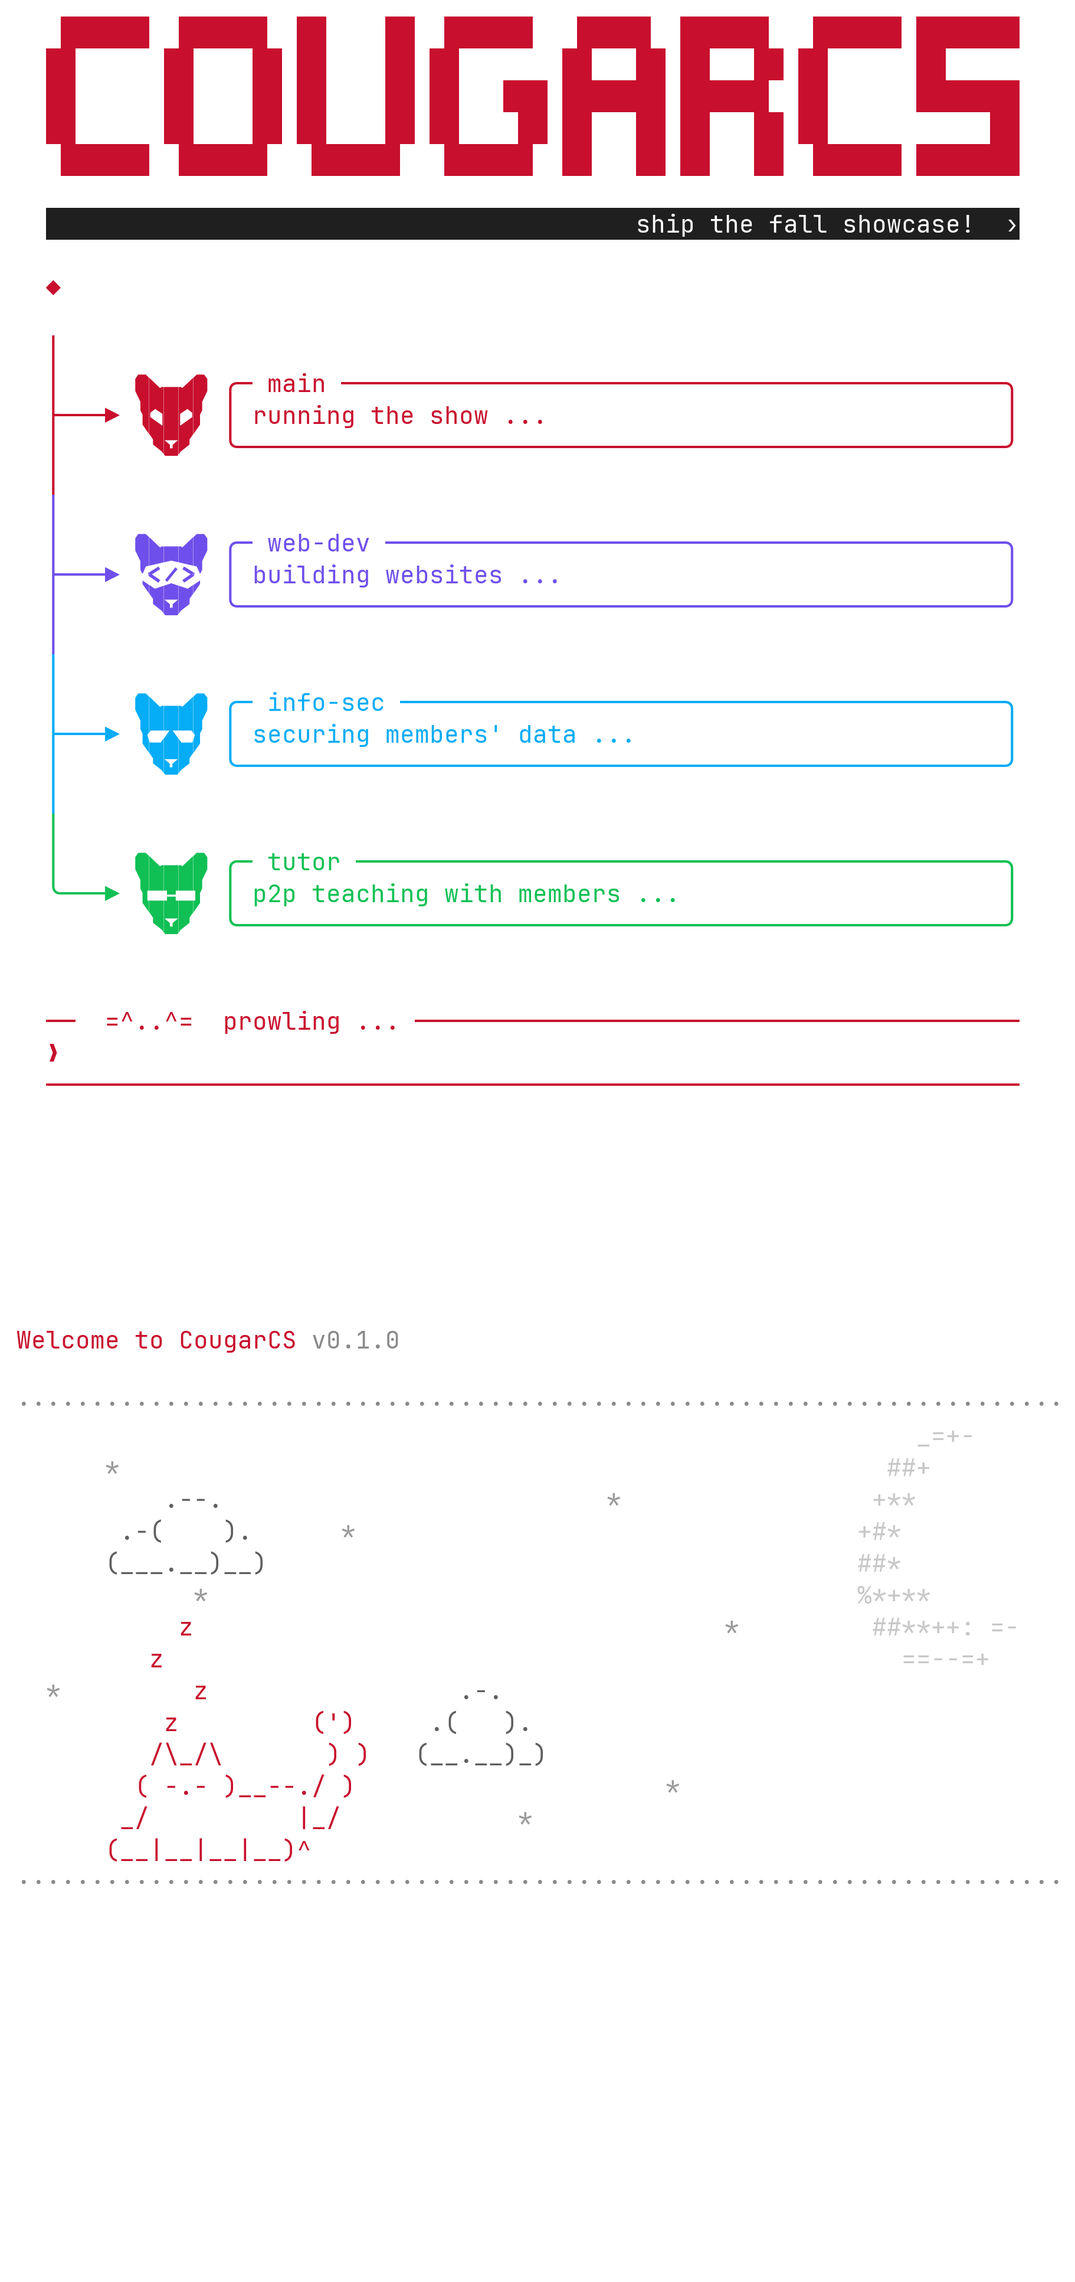
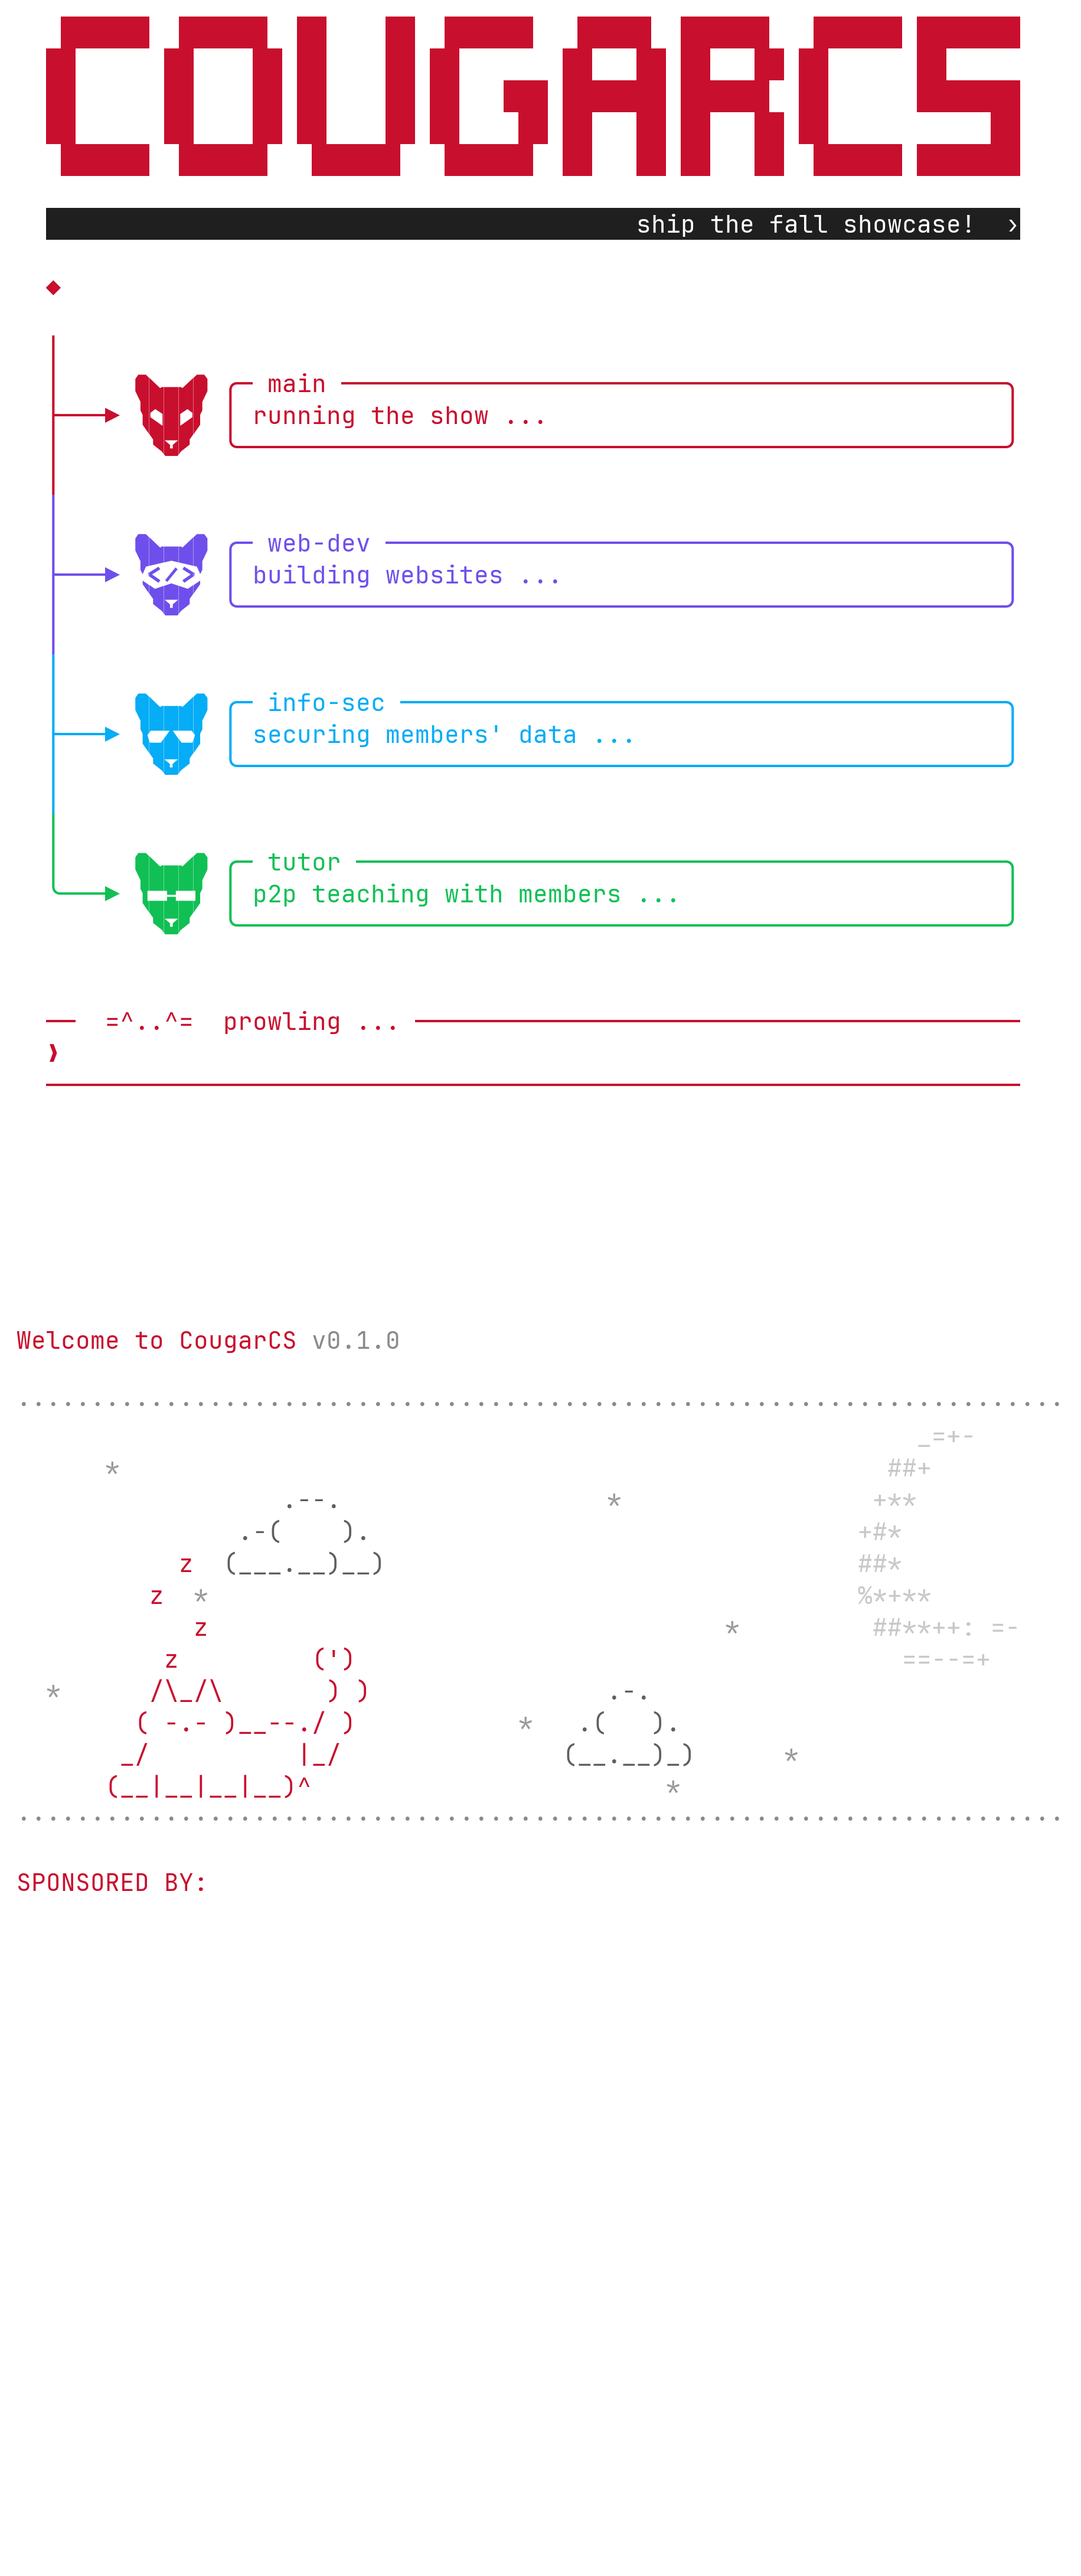
feat: draped cougar sprite + wired sponsor grid, condensed night scene
- Add COUGAR_DRAPED_ASCII (draft): draped/lounging pose, curved dangling legs,
  tail trailing off the rear
- Sponsor grid rebuilt as an ASCII canvas: rounded boxes with circuit-style
  wire traces off every side ending in ○ pads; boxes one row taller
- Sponsor label: plain red left-aligned "SPONSORED BY:" with a gap before boxes
- Night scene condensed by two rows; both clouds shifted right

Claude-Session: https://claude.ai/code/session_01PiPW8ebdnj5r2kgCBUtyCi

diff --git a/src/scene.ts b/src/scene.ts
@@ -184,38 +184,73 @@ export function buildScene(r: CliRenderer, state: SceneState) {
 
   // ---- sponsor grid, below both shirt designs ----
   const WHITE = "#ffffff"
-  const GRID_GAP = 1 // gap between boxes in a row, and between the two rows
-  const CELL_H = 4
-  function gridRow(count: number) {
-    const row = new BoxRenderable(r, { flexDirection: "row", width: contentWidth, gap: GRID_GAP })
-    for (let i = 0; i < count; i++) {
-      row.add(new BoxRenderable(r, {
-        borderStyle: "rounded",
-        border: true,
-        borderColor: WHITE,
-        backgroundColor: TRANSPARENT,
-        flexGrow: 1,
-        height: CELL_H,
-      }))
-    }
-    return row
-  }
   const grid = new BoxRenderable(r, {
     flexDirection: "column",
     width: contentWidth,
     paddingTop: 1,
-    gap: GRID_GAP,
   })
   root.add(grid)
   const sponsorLabel = new BoxRenderable(r, {
     flexDirection: "row",
-    justifyContent: "center",
     width: contentWidth,
   })
   grid.add(sponsorLabel)
-  sponsorLabel.add(txt(r, "SPONSORED BY:", WHITE))
-  grid.add(gridRow(3))
-  grid.add(gridRow(2))
+  sponsorLabel.add(txt(r, "SPONSORED BY:", theme.red))
+  grid.add(txt(r, "", theme.dim, { height: 1 })) // gap between label and boxes
+
+  // Sponsor logos as an ASCII canvas: rounded boxes with circuit-style wires
+  // (traces off every side ending in ○ pads) drawn together for full control.
+  const SW = contentWidth
+  const SH = 22
+  const sc: string[][] = Array.from({ length: SH }, () => Array(SW).fill(" "))
+  const set = (x: number, y: number, ch: string) => {
+    if (y >= 0 && y < SH && x >= 0 && x < SW) sc[y][x] = ch
+  }
+  const sbox = (x: number, y: number, w: number, h: number) => {
+    set(x, y, "╭"); set(x + w - 1, y, "╮"); set(x, y + h - 1, "╰"); set(x + w - 1, y + h - 1, "╯")
+    for (let i = 1; i < w - 1; i++) { set(x + i, y, "─"); set(x + i, y + h - 1, "─") }
+    for (let j = 1; j < h - 1; j++) { set(x, y + j, "│"); set(x + w - 1, y + j, "│") }
+  }
+  const up = (x: number, y: number, n: number) => {
+    set(x, y, "┬"); for (let i = 1; i <= n; i++) set(x, y - i, "│"); set(x, y - n - 1, "○")
+  }
+  const down = (x: number, y: number, n: number) => {
+    set(x, y, "┴"); for (let i = 1; i <= n; i++) set(x, y + i, "│"); set(x, y + n + 1, "○")
+  }
+  const left = (x: number, y: number, n: number) => {
+    set(x, y, "┤"); for (let i = 1; i <= n; i++) set(x - i, y, "─"); set(x - n - 1, y, "○")
+  }
+  const right = (x: number, y: number, n: number) => {
+    set(x, y, "├"); for (let i = 1; i <= n; i++) set(x + i, y, "─"); set(x + n + 1, y, "○")
+  }
+
+  const BW = 19, BH = 5, ty = 3
+  const top = [4, 26, 48]
+  for (const x of top) sbox(x, ty, BW, BH)
+  // top box 1
+  up(top[0] + 3, ty, 2); up(top[0] + 9, ty, 1); up(top[0] + 14, ty, 2)
+  left(top[0], ty + 1, 2); left(top[0], ty + 2, 3)
+  down(top[0] + 5, ty + BH - 1, 1); down(top[0] + 12, ty + BH - 1, 1)
+  // top box 2
+  up(top[1] + 4, ty, 1); up(top[1] + 13, ty, 2)
+  right(top[1] + BW - 1, ty + 1, 2); right(top[1] + BW - 1, ty + 2, 3)
+  down(top[1] + 6, ty + BH - 1, 1); down(top[1] + 11, ty + BH - 1, 1)
+  // top box 3
+  up(top[2] + 4, ty, 2); up(top[2] + 10, ty, 1)
+  right(top[2] + BW - 1, ty + 1, 3); right(top[2] + BW - 1, ty + 2, 2)
+  down(top[2] + 7, ty + BH - 1, 1); down(top[2] + 13, ty + BH - 1, 1)
+
+  const BW2 = 30, by = 12
+  const bot = [4, 37]
+  for (const x of bot) sbox(x, by, BW2, BH)
+  up(bot[0] + 6, by, 1); up(bot[0] + 20, by, 1)
+  left(bot[0], by + 1, 2); left(bot[0], by + 2, 3)
+  down(bot[0] + 9, by + BH - 1, 1); down(bot[0] + 18, by + BH - 1, 2)
+  up(bot[1] + 8, by, 1); up(bot[1] + 22, by, 1)
+  right(bot[1] + BW2 - 1, by + 1, 3); right(bot[1] + BW2 - 1, by + 2, 2)
+  down(bot[1] + 10, by + BH - 1, 2); down(bot[1] + 20, by + BH - 1, 1)
+
+  for (let y = 0; y < SH; y++) grid.add(txt(r, sc[y].join(""), WHITE))
 
   return root
 }
@@ -249,7 +284,7 @@ function buildBackSection(r: CliRenderer, root: BoxRenderable, contentWidth: num
   rule()
 
   // ---- scene canvas ----
-  const H = 14
+  const H = 12
   const chars: string[][] = Array.from({ length: H }, () => Array(W).fill(" "))
   const colors: string[][] = Array.from({ length: H }, () => Array(W).fill(""))
   const stamp = (art: string[], top: number, left: number, color: string) => {
@@ -268,13 +303,13 @@ function buildBackSection(r: CliRenderer, root: BoxRenderable, contentWidth: num
 
   // stars
   const STARS: [number, number][] = [
-    [1, 6], [2, 40], [3, 22], [5, 12], [6, 48], [8, 2], [9, 34], [11, 44], [12, 34],
+    [1, 6], [2, 40], [3, 22], [5, 12], [6, 48], [8, 2], [9, 34], [10, 52], [11, 44],
   ]
   for (const [y, x] of STARS) stamp(["*"], y, x, GRAY_STAR)
 
-  // clouds
-  stamp(CLOUD_LARGE_ASCII, 2, 4, GRAY_CLOUD)
-  stamp(CLOUD_SMALL_ASCII, 8, 26, GRAY_CLOUD)
+  // clouds (shifted right)
+  stamp(CLOUD_LARGE_ASCII, 2, 12, GRAY_CLOUD)
+  stamp(CLOUD_SMALL_ASCII, 8, 36, GRAY_CLOUD)
 
   // moon-"C", top-right
   stamp(MOON_ASCII, 0, W - 16, GRAY_MOON)

diff --git a/src/sprite.ts b/src/sprite.ts
@@ -127,6 +127,24 @@ export const COUGAR_WALK_ASCII: string[] = art(String.raw`
 `)
 export const COUGAR_WALK_ASCII_WIDTH = 35
 
+// Draped/lounging over an edge (ref: cougar asleep over a log). Keeps the Z's;
+// body lies horizontal, legs dangle below with a leftward curve, tail trails off
+// the right rear. Meant to sit at the bottom so the legs hang past the frame.
+export const COUGAR_DRAPED_ASCII: string[] = art(String.raw`
+        z
+      z
+         z
+      /\_/\
+   __( -.- )______________
+  /                       \___
+ (_________________________)  \__
+    |   |         |   |          '-._
+    (   (         (   (              '-.
+    |   |         |   |
+   (_) (_)       (_) (_)
+`)
+export const COUGAR_DRAPED_ASCII_WIDTH = 37
+
 // ---------------------------------------------------------------------------
 // Night scenery for the back design — used by the back section in scene.ts.
 // ---------------------------------------------------------------------------
